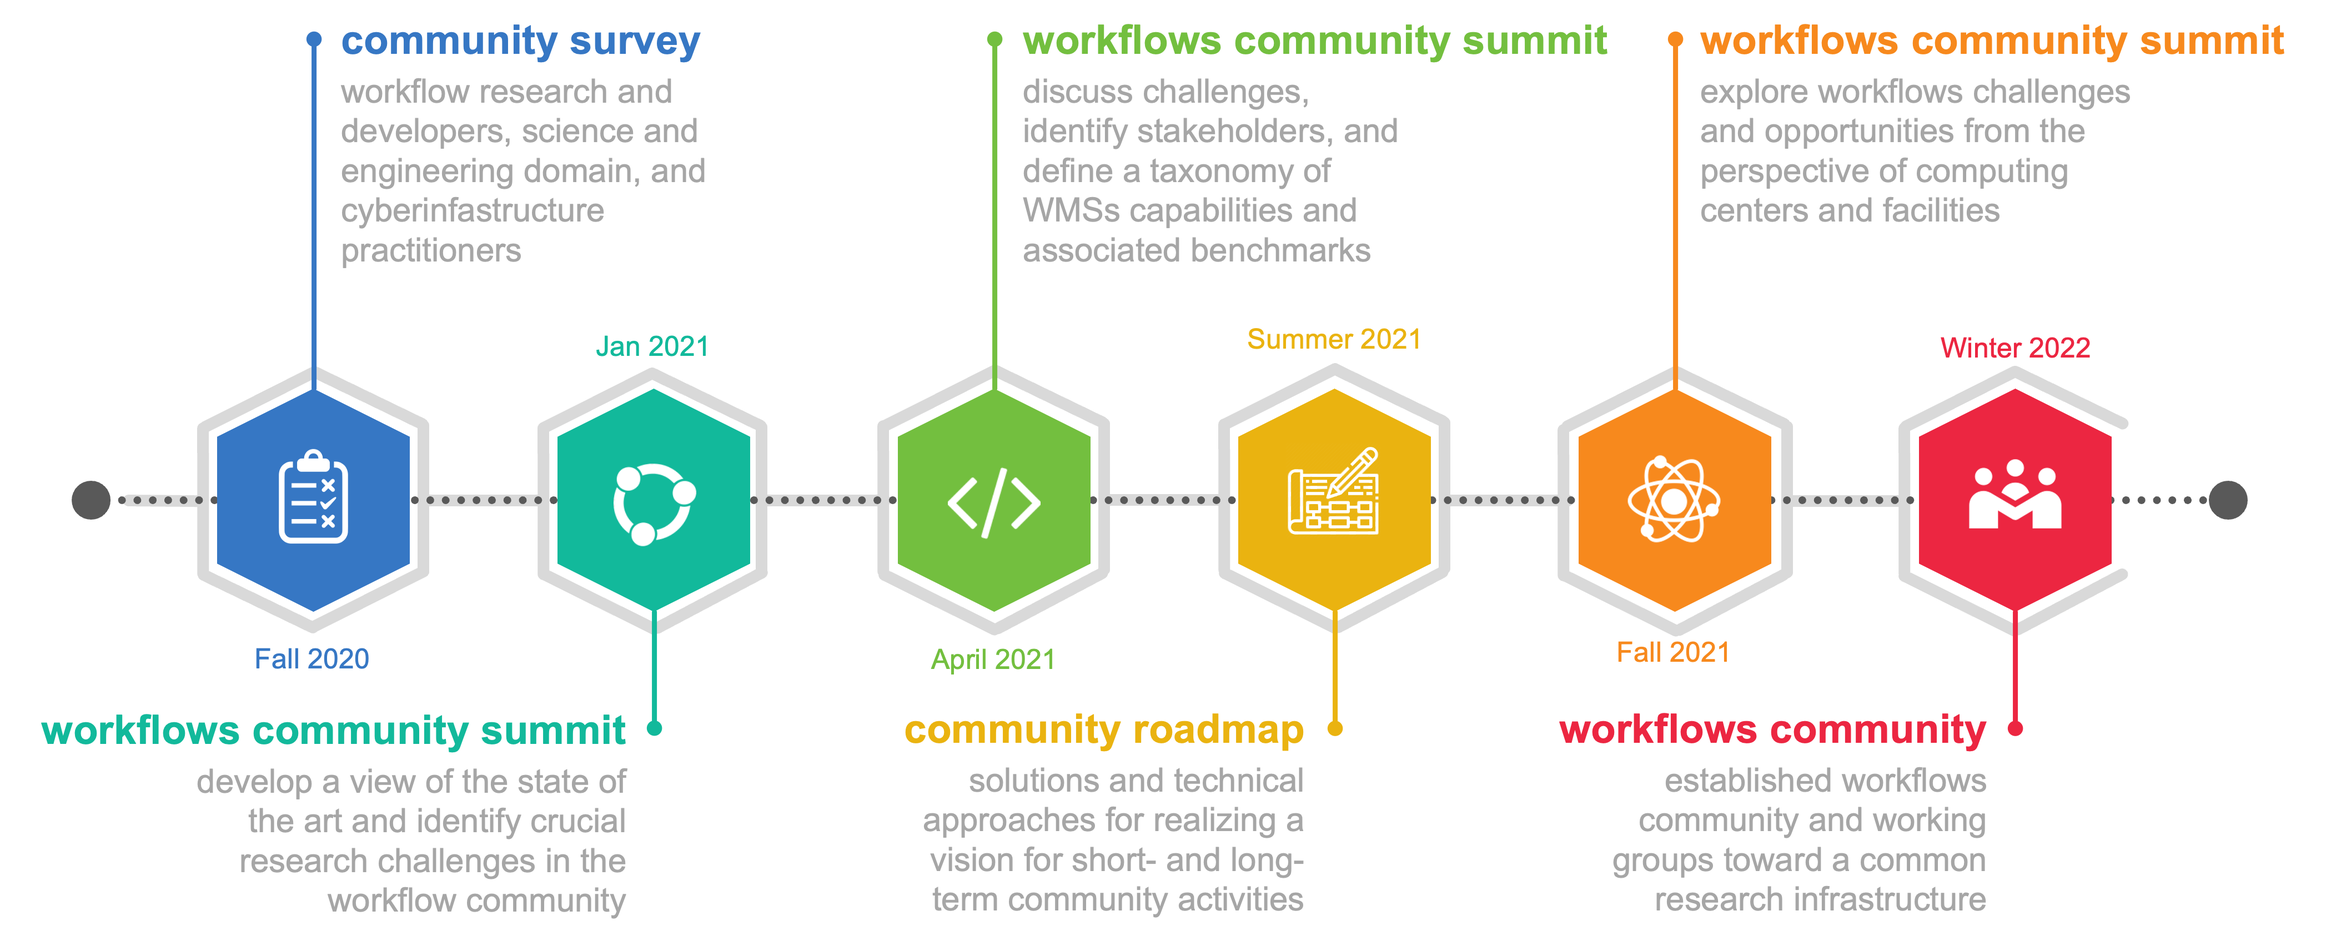
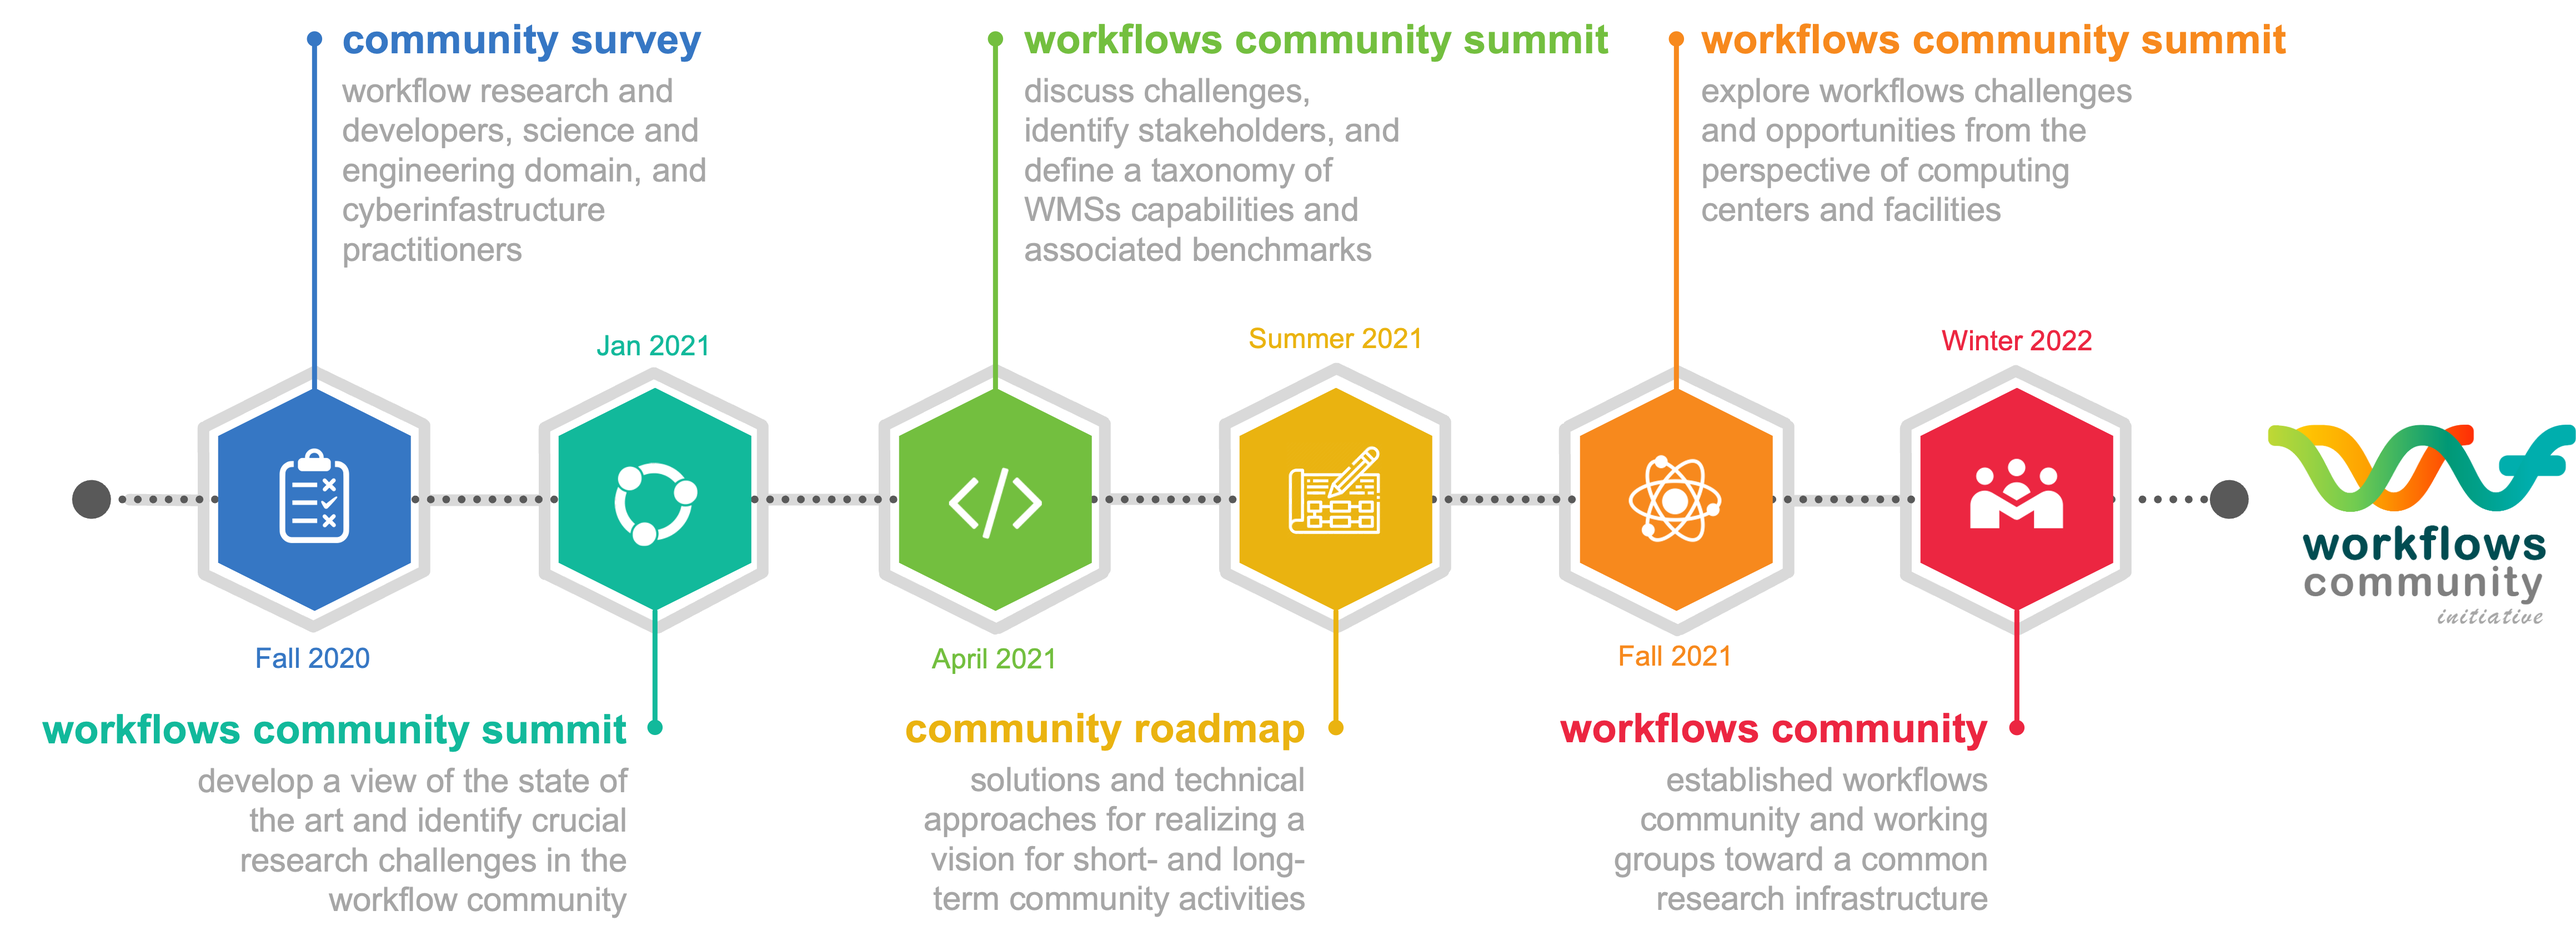
finalizing workflowsRI project

diff --git a/_layouts/home.html b/_layouts/home.html
@@ -3,57 +3,83 @@ layout: page
 ---
 
 <div class="concept">
-    <img src="/assets/images/workflowsri-concept.png" style="max-width: 90%; margin: 0"/>
+    <img src="/assets/images/workflowsri-roadmap.png" />
 </div>
+
+<!-- <div class="concept">
+    <img src="/assets/images/workflowsri-concept.png" style="max-width: 90%; margin: 0"/>
+</div> -->
 
 <div style="line-height: 1.5em">
     <p>
-        The goal of the <strong>workflows<span class="RI">RI</span></strong> project is to engage with representatives
-        from the <strong>workflows
-        community</strong>
-        – including researchers, developers, science and engineering users, and cyberinfrastructure experts.
+        Building upon the success of <strong>workflows<span class="RI">RI</span></strong>, we are launching a new
+        <strong><a href="https://workflows.community" target="_blank">Workflows Community Initiative</a></strong> (WCI)
+        to focus on bringing together community resources and capabilities for workflow users, developers, and
+        researchers, as well as facilitating discussions and interactions with computing facilities. WCI arises as a
+        community-centered effort for gathering and promoting long-standing and recent community-focused efforts (e.g.,
+        workflowsRI, ExaWorks, ELIXIR, among others).
     </p>
 
-    <p>
-        Through targeted community surveys and focused summits, the project will gather a diverse set of perspectives,
-        create a community-owned WMS inventory and common knowledge taxonomy, define an experimental methodology for
-        measuring WMS capabilities, and develop a blueprint for a community research infrastructure.
-    </p>
-    <p>
-        The end goal of this project is to design an infrastructure that will have the potential to truly democratize
-        workflows research, enabling researchers, postdocs, and students, irrespective of their institutions, to access
-        cutting-edge infrastructure for comparison, evaluation, and verification of workflows research results.
-
-    </p>
-
-    <a class="getinvolved" href="https://join.slack.com/t/workflowscommunity/shared_invite/zt-10tn61tdy-p9sExEOBoCDpaPmj3G3Jtg"
-       target="_blank">
-            <img src="/assets/images/slack.png" style="width: 1em; display: block; margin: 0" alt="slack"/>
-            Join us at <strong>workflows<span class="RI">community</span>.slack.com</strong>
-    </a>
+    <a class="getinvolved" href="https://workflows.community" target="_blank"> <img
+            src="https://workflows.community/favicon.ico" style="width: 2em; display: block; margin: 0" alt="slack" />
+        Join us at <strong>https://workflows.<span class="RI">community</span></strong> </a>
 
 </div>
 
-<p>&nbsp;</p>
+<!-- <p>&nbsp;</p>
 
 <h2>Roadmap</h2>
 
 <div class="concept">
     <img src="/assets/images/workflowsri-roadmap.png"/>
-</div>
+</div> -->
 
+<p>&nbsp;</p>
 <p>&nbsp;</p>
 
 <h2>Project Overview</h2>
-<br/>
+<br />
 <div class="resp-container">
     <iframe width="560" height="315" src="https://www.youtube.com/embed/iQpdxML01i0" frameborder="0"
-            allow="accelerometer; autoplay; clipboard-write; encrypted-media; gyroscope; picture-in-picture"
-            allowfullscreen class="resp-iframe"></iframe>
+        allow="accelerometer; autoplay; clipboard-write; encrypted-media; gyroscope; picture-in-picture" allowfullscreen
+        class="resp-iframe"></iframe>
 </div>
+<p>&nbsp;</p>
+<a href="https://doi.org/10.1109/WORKS54523.2021.00016" target="_blank"
+    style="display: block; border: 1px solid #333; padding: 1em 2em; border-radius: 1em; box-shadow: 0px 4px 8px rgba(255, 255, 255, 0.15), 0px 0px 2px rgba(255, 255, 255, 0.2), 0px 0px 1px rgba(255, 255, 255, 0.2);">
+    <h3>Research Paper</h3>
+    <strong>A Community Roadmap for Scientific Workflows Research and Development</strong><br />
+    <p style="font-size: 0.9em; line-height: 1.3em; font-style: italic; color: #999">
+        Ferreira da Silva, R., Casanova, H., Chard, K., Altintas, I.,
+        Badia, R. M., Balis, B., Coleman, T., Coppens, F., Di Natale, F., Enders, B., Fahringer, T., Filgueira, R.,
+        Fursin, G., Garijo, D., Goble, C., Howell, D., Jha, S., Katz, D. S., Laney, D., … Wolf, M. (2021) 2021 IEEE
+        Workshop on Workflows in Support of Large-Scale Science (WORKS), 81–90.
+        https://doi.org/10.1109/WORKS54523.2021.00016
+    </p>
+</a>
+<p>&nbsp;</p>
+<p>
+    Scientific workflows are used almost universally across scientific domains and have underpinned some of the most
+    significant discoveries of the past several decades. Workflow management systems (WMSs) provide abstraction and
+    automation which enable a broad range of researchers to easily define sophisticated computational processes and to
+    then execute them efficiently on parallel and distributed computing systems. As a result of widespread workflow
+    adoption, the workflows research and development community has grown: there are now hundreds of independent WMSs,
+    thousands of researchers and developers, and a rapidly growing corpus of workflows research publications. This
+    progress has occurred in spite of the absence of a community research infrastructure, which has had wide-ranging
+    consequences.
+</p>
+<p>
+    During this planning project, we conducted a series of events called "<a href="/summits">Workflows Community
+        Summits</a>" (January, April, and November 2021). The overarching goal of these summits was to (i) develop a
+    coherent view of the state of the art, (ii) identify key research challenges, (iii) articulate a vision for
+    potential community activities, and (iv) explore technical approaches for realizing (part of) this vision. The
+    summits were attended by more than 130 participants, including international lead researchers and developers, from
+    distinct workflow systems and user communities (over 30+ workflow systems were represented). The outcomes of the
+    three Workflows Community Summits have been compiled and published in three technical reports and a research paper.
+</p>
 
-{% assign pinned = site.posts | where_exp: "item", "item.pin == true"  %}
-{% assign default = site.posts | where_exp: "item", "item.pin != true"  %}
+{% assign pinned = site.posts | where_exp: "item", "item.pin == true" %}
+{% assign default = site.posts | where_exp: "item", "item.pin != true" %}
 {% assign posts = "" | split: "" %}
 
 <!-- Get pinned posts -->
@@ -74,58 +100,52 @@ layout: page
 
 {% assign default_beg = offset | minus: pinned.size %}
 
-{% if default_beg < 0 %}
-{% assign default_beg = 0 %}
-{% endif %}
-
-{% assign default_num = paginator.posts | size | minus: pinned_num  %}
-{% assign default_end = default_beg | plus: default_num | minus: 1 %}
-
-{% if default_num > 0 %}
-{% for i in (default_beg..default_end) %}
-{% assign posts = posts | push: default[i] %}
-{% endfor %}
-{% endif %}
-
-
-<div id="post-list">
-
-    {% for post in posts %}
-
-    <div class="post-preview">
-        <div class="d-flex justify-content-between pr-xl-2">
-            <h1><a href="{{ post.url | relative_url }}">{{ post.title }}</a></h1>
-            {% if post.pin == true %}
-            <i class="fas fa-thumbtack fa-fw text-muted mt-1 ml-2 mt-xl-2" data-toggle="tooltip" data-placement="left"
-               title="Pinned"></i>
-            {% endif %}
-        </div>
-        <div class="post-content">
-            <p>
-                {% include no-linenos.html content=post.content %}
-                {{ content | markdownify | strip_html | truncate: 200 }}
-            </p>
-        </div>
-
-        <div class="post-meta text-muted">
-            <!-- posted date -->
-            <i class="far fa-clock fa-fw"></i>
-            {% include timeago.html date=post.date tooltip=true %}
-
-            <!-- page views -->
-            {% if site.google_analytics.pv.enabled %}
-            <i class="far fa-eye fa-fw"></i>
-            <span id="pv_{{-post.title-}}" class="pageviews">
-        <i class="fas fa-spinner fa-spin fa-fw"></i>
-      </span>
-            {% endif %}
-        </div>
-    </div> <!-- .post-review -->
-
+{% if default_beg < 0 %} {% assign default_beg=0 %} {% endif %} {% assign default_num=paginator.posts | size | minus:
+    pinned_num %} {% assign default_end=default_beg | plus: default_num | minus: 1 %} {% if default_num> 0 %}
+    {% for i in (default_beg..default_end) %}
+    {% assign posts = posts | push: default[i] %}
     {% endfor %}
+    {% endif %}
 
-</div> <!-- #post-list -->
 
-{% if paginator.total_pages > 0 %}
-{% include post-paginator.html %}
-{% endif %}
+    <div id="post-list">
+
+        {% for post in posts %}
+
+        <div class="post-preview">
+            <div class="d-flex justify-content-between pr-xl-2">
+                <h1><a href="{{ post.url | relative_url }}">{{ post.title }}</a></h1>
+                {% if post.pin == true %}
+                <i class="fas fa-thumbtack fa-fw text-muted mt-1 ml-2 mt-xl-2" data-toggle="tooltip"
+                    data-placement="left" title="Pinned"></i>
+                {% endif %}
+            </div>
+            <div class="post-content">
+                <p>
+                    {% include no-linenos.html content=post.content %}
+                    {{ content | markdownify | strip_html | truncate: 200 }}
+                </p>
+            </div>
+
+            <div class="post-meta text-muted">
+                <!-- posted date -->
+                <i class="far fa-clock fa-fw"></i>
+                {% include timeago.html date=post.date tooltip=true %}
+
+                <!-- page views -->
+                {% if site.google_analytics.pv.enabled %}
+                <i class="far fa-eye fa-fw"></i>
+                <span id="pv_{{-post.title-}}" class="pageviews">
+                    <i class="fas fa-spinner fa-spin fa-fw"></i>
+                </span>
+                {% endif %}
+            </div>
+        </div> <!-- .post-review -->
+
+        {% endfor %}
+
+    </div> <!-- #post-list -->
+
+    {% if paginator.total_pages > 0 %}
+    {% include post-paginator.html %}
+    {% endif %}

diff --git a/assets/css/_addon/main.scss b/assets/css/_addon/main.scss
@@ -1729,12 +1729,13 @@ h2 {
   margin: auto;
   margin-top: 2em;
   border: 1px solid #ccc !important;
-  padding: 1em;
-  border-radius: 2em;
+  padding-bottom: 0.5em;
+  border-radius: 1em;
   width: 60%;
   text-align: center;
   display: block;
   text-decoration: none;
+  box-shadow: 0px 4px 8px rgba(255, 255, 255, 0.15), 0px 0px 2px rgba(255, 255, 255, 0.2), 0px 0px 1px rgba(255, 255, 255, 0.2);
 }
 
 .getinvolved strong {
